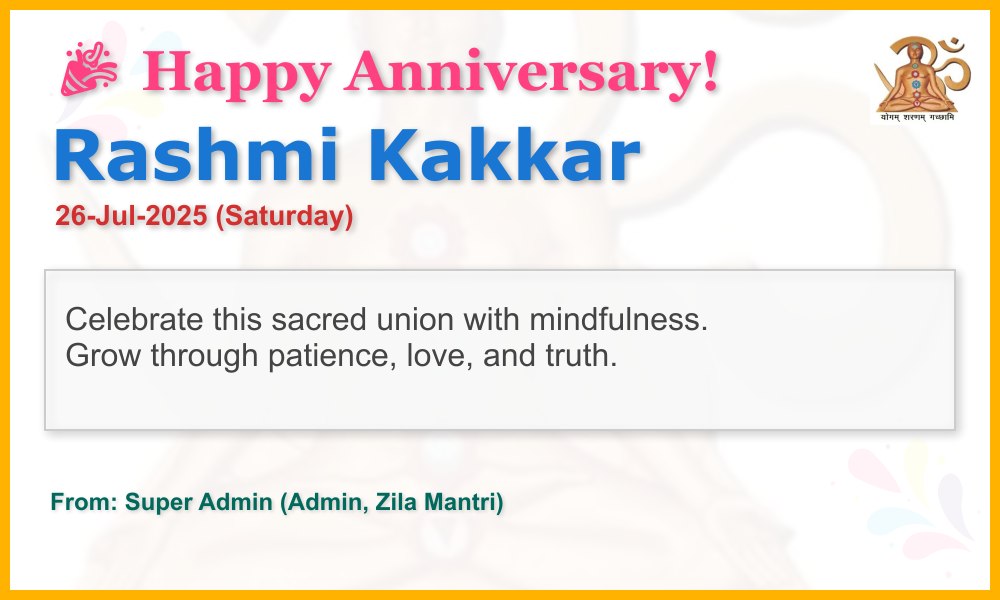
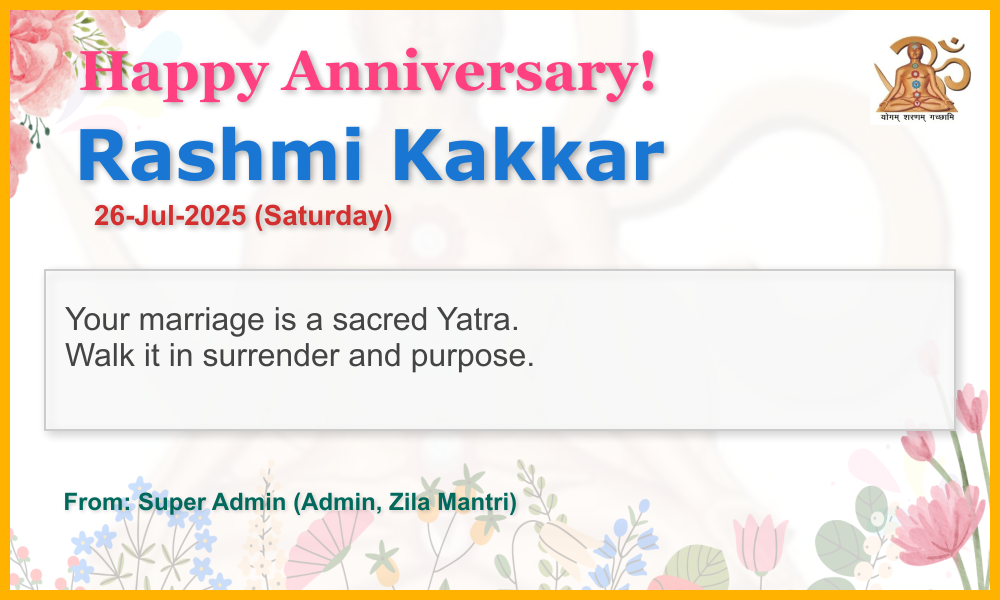
bg changed greeting

diff --git a/controllers/greetingController.js b/controllers/greetingController.js
@@ -72,12 +72,12 @@ exports.generateGreeting = async (req, res) => {
     // 🟣 Title
     ctx.fillStyle = "#ff4081";
     ctx.font = "bold 56px Georgia";
-    drawShadowedText(ctx, `🎉 Happy ${capitalize(type)}!`, 50, 90);
+    drawShadowedText(ctx, `  Happy ${capitalize(type)}!`, 50, 90);
 
     // 🔵 Name
     ctx.fillStyle = "#1976d2";
     ctx.font = "bold 70px Verdana";
-    drawShadowedText(ctx, name, 50, 180);
+    drawShadowedText(ctx, (" " + name), 50, 180);
 
     // 🔴 Event Date
     let yStartMessage = 270;
@@ -85,7 +85,7 @@ exports.generateGreeting = async (req, res) => {
       const formattedDate = formatDateReadable(date);
       ctx.fillStyle = "#d32f2f";
       ctx.font = "bold 28px Arial";
-      drawShadowedText(ctx, formattedDate, 55, 225);
+      drawShadowedText(ctx, ("     " + formattedDate), 55, 225);
       yStartMessage = 270;
     }
 
@@ -121,7 +121,7 @@ exports.generateGreeting = async (req, res) => {
     );
 
     // 🟠 From Info
-    const fromText = `From: ${user.name} (${user.roles.join(", ")})`;
+    const fromText = `  From: ${user.name} (${user.roles.join(", ")})`;
     const hierarchyText = [user.kenderName, user.ksheterName, user.zilaName]
       .filter(Boolean)
       .join(", ");
